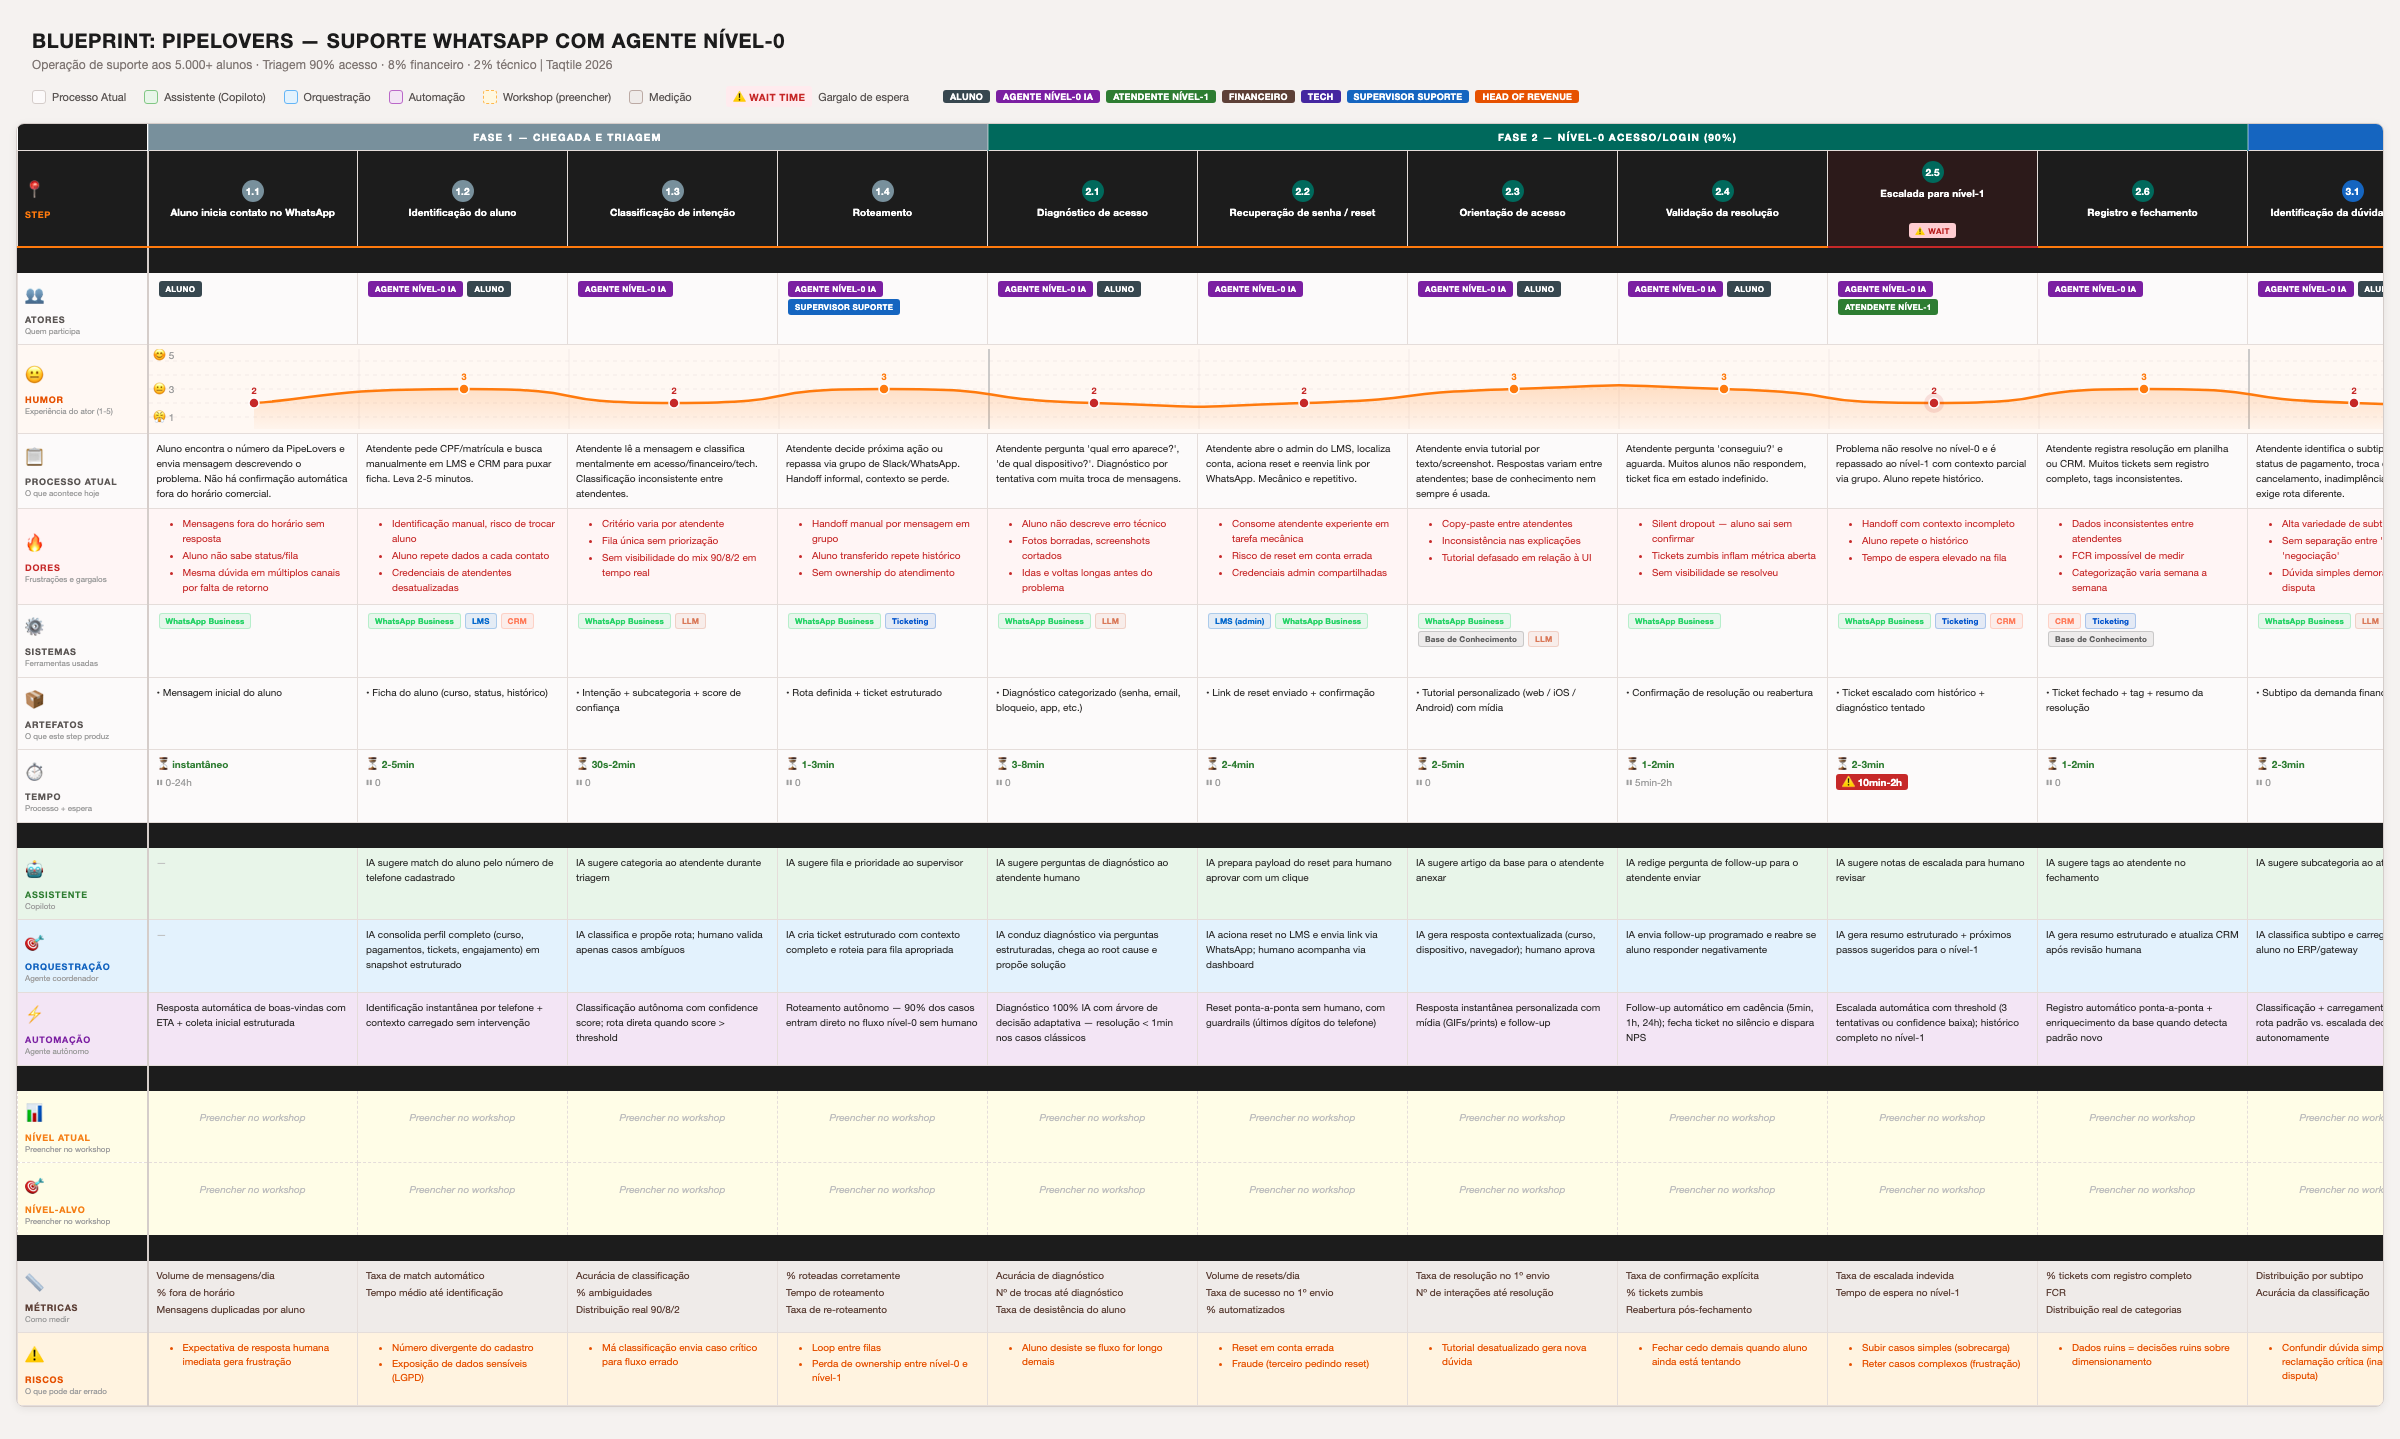
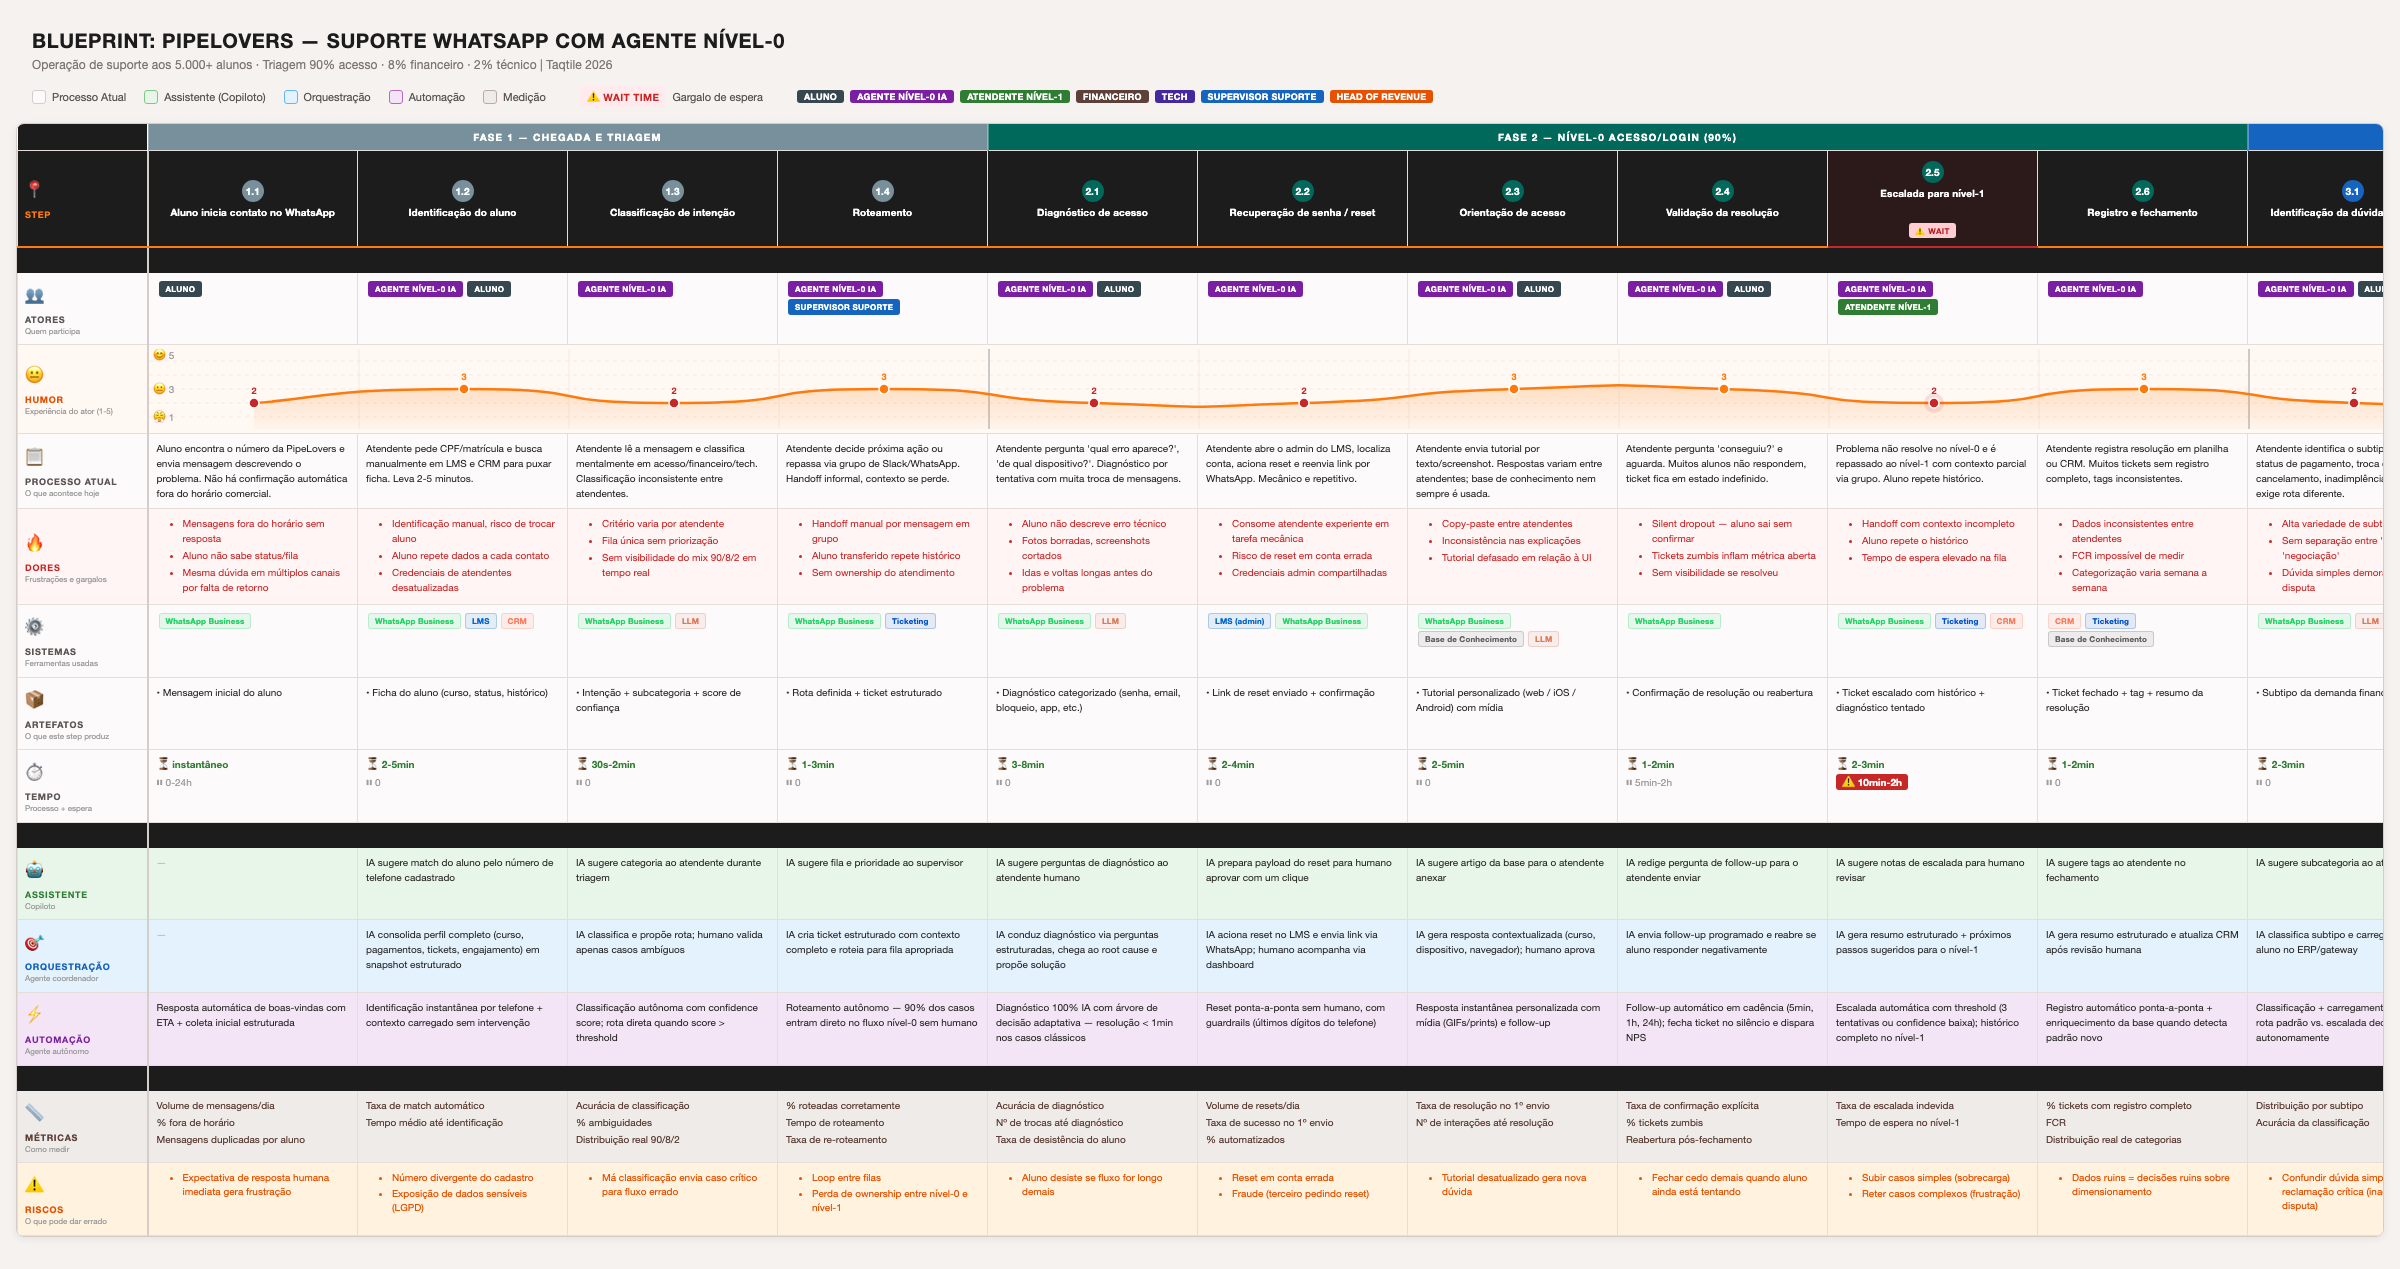
Remove bloco de workshop do blueprint PipeLovers
- Tira lanes "Nível Atual" e "Nível-Alvo" e separador "Decisão do time"
- Limpa legenda e regenera PNG

diff --git a/pipelovers/blueprints/blueprint-suporte-whatsapp.html b/pipelovers/blueprints/blueprint-suporte-whatsapp.html
@@ -96,7 +96,6 @@ th,td{border:1px solid #E5DDDA}
   <div class="legend-item"><div class="legend-dot ldot-assist"></div>Assistente (Copiloto)</div>
   <div class="legend-item"><div class="legend-dot ldot-orq"></div>Orquestração</div>
   <div class="legend-item"><div class="legend-dot ldot-auto"></div>Automação</div>
-  <div class="legend-item"><div class="legend-dot ldot-workshop"></div>Workshop (preencher)</div>
   <div class="legend-item"><div class="legend-dot ldot-measure"></div>Medição</div>
   <div class="legend-item" style="margin-left:16px"><span class="wait-badge-legend">&#9888;&#65039; WAIT TIME</span> Gargalo de espera</div>
   <div class="legend-item" id="actor-legend" style="margin-left:16px"></div>
@@ -520,11 +519,6 @@ var LANES_BLOCK2 = [
   {id:"auto", icon:"\u26A1", label:"AUTOMAÇÃO", sub:"Agente autônomo", cls:"lane-auto"}
 ];
 
-var LANES_BLOCK3 = [
-  {id:"nivelAtual", icon:"\uD83D\uDCCA", label:"NÍVEL ATUAL", sub:"Preencher no workshop", cls:"lane-workshop"},
-  {id:"nivelAlvo", icon:"\uD83C\uDFAF", label:"NÍVEL-ALVO", sub:"Preencher no workshop", cls:"lane-workshop"}
-];
-
 var LANES_BLOCK4 = [
   {id:"metrics", icon:"\uD83D\uDCCF", label:"MÉTRICAS", sub:"Como medir", cls:"lane-metrics"},
   {id:"risks", icon:"\u26A0\uFE0F", label:"RISCOS", sub:"O que pode dar errado", cls:"lane-risks"}
@@ -589,14 +583,6 @@ html += sepRow('\u2014 COMO IA PODE AJUDAR \u2014');
 LANES_BLOCK2.forEach(function(lane){
   html += '<tr class="'+lane.cls+'"><td class="row-label '+lane.cls+'"><span class="rl-icon">'+lane.icon+'</span><span class="rl-main">'+esc(lane.label)+'</span><div class="rl-sub">'+esc(lane.sub)+'</div></td>';
   STEPS.forEach(function(s){html+='<td class="cell">';if(lane.id==='assist')html+=aiText(s.assist);else if(lane.id==='orq')html+=aiText(s.orchestration);else if(lane.id==='auto')html+=aiText(s.automation);html+='</td>';});
-  html += '</tr>';
-});
-
-html += sepRow('\u2014 DECISÃO DO TIME (PREENCHER NO WORKSHOP) \u2014');
-
-LANES_BLOCK3.forEach(function(lane){
-  html += '<tr class="'+lane.cls+'"><td class="row-label '+lane.cls+'"><span class="rl-icon">'+lane.icon+'</span><span class="rl-main">'+esc(lane.label)+'</span><div class="rl-sub">'+esc(lane.sub)+'</div></td>';
-  STEPS.forEach(function(){html+='<td class="cell" style="border-style:dashed"><div class="workshop-placeholder">Preencher no workshop</div></td>';});
   html += '</tr>';
 });
 
